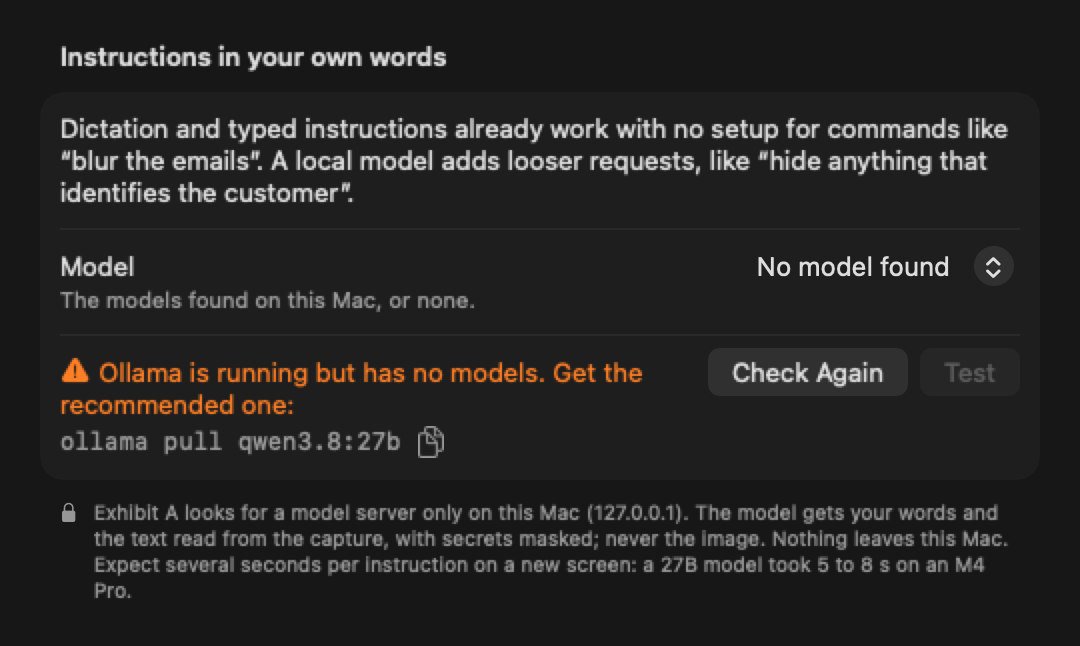
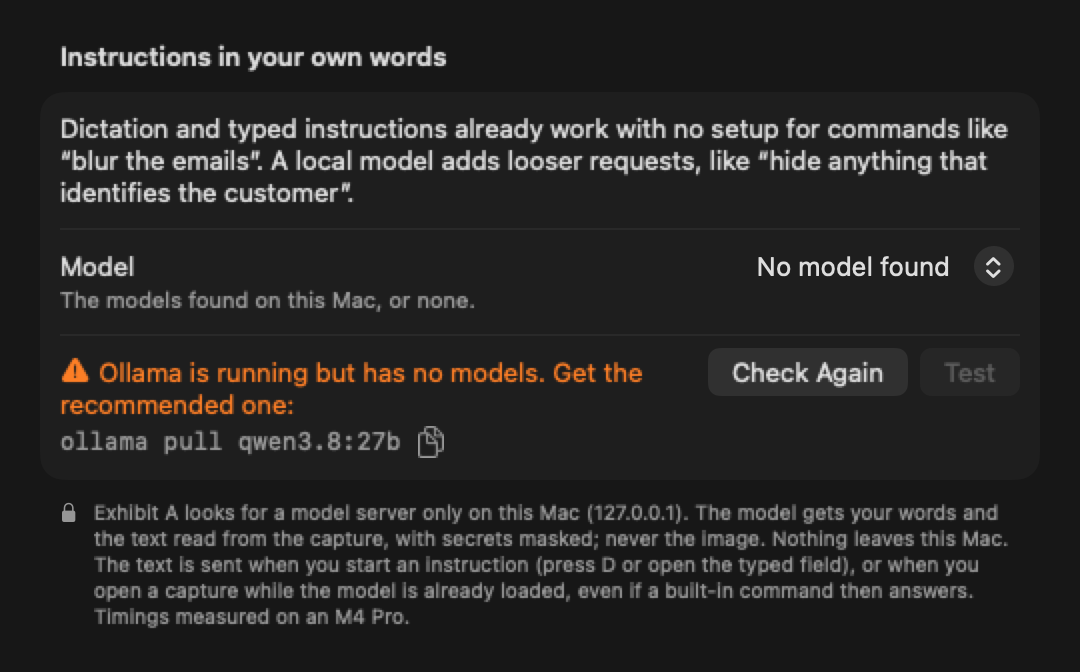
Say in Settings when the capture's text is sent to the model
It goes when an instruction starts, or when a capture opens with the model already loaded, even if a built-in command then answers. Renders regenerated for this and the model descriptions.

Refs #28

diff --git a/App/Settings/FreeFormSection.swift b/App/Settings/FreeFormSection.swift
@@ -35,8 +35,10 @@ struct FreeFormSection: View {
             Text("Instructions in your own words")
         } footer: {
             Label("Exhibit A looks for a model server only on this Mac (127.0.0.1). The model gets your words and the "
-                  + "text read from the capture, with secrets masked; never the image. Nothing leaves this Mac. Expect "
-                  + "several seconds per instruction on a new screen: a 27B model took 5 to 8 s on an M4 Pro.",
+                  + "text read from the capture, with secrets masked; never the image. Nothing leaves this Mac. The "
+                  + "text is sent when you start an instruction (press D or open the typed field), or when you open a "
+                  + "capture while the model is already loaded, even if a built-in command then answers. Timings "
+                  + "measured on an M4 Pro.",
                   systemImage: "lock.fill")
                 .font(.caption).foregroundStyle(.secondary)
                 .fixedSize(horizontal: false, vertical: true)
